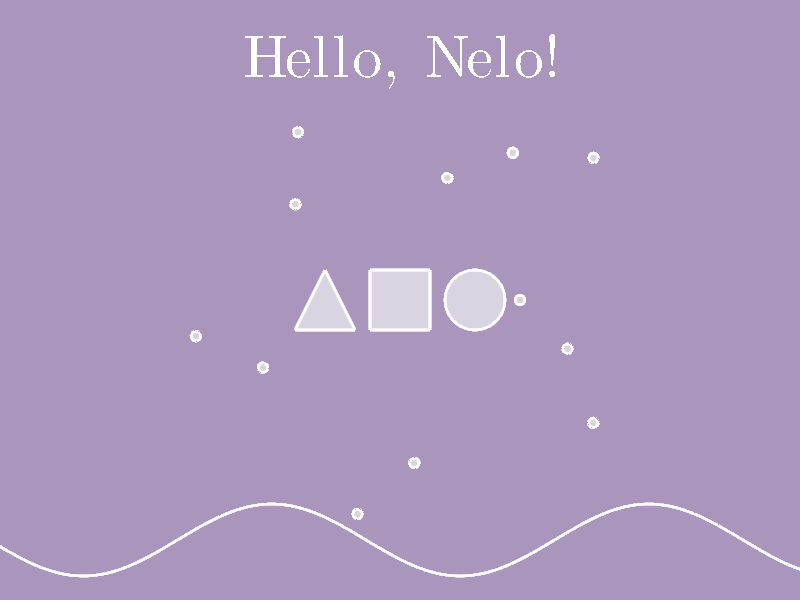
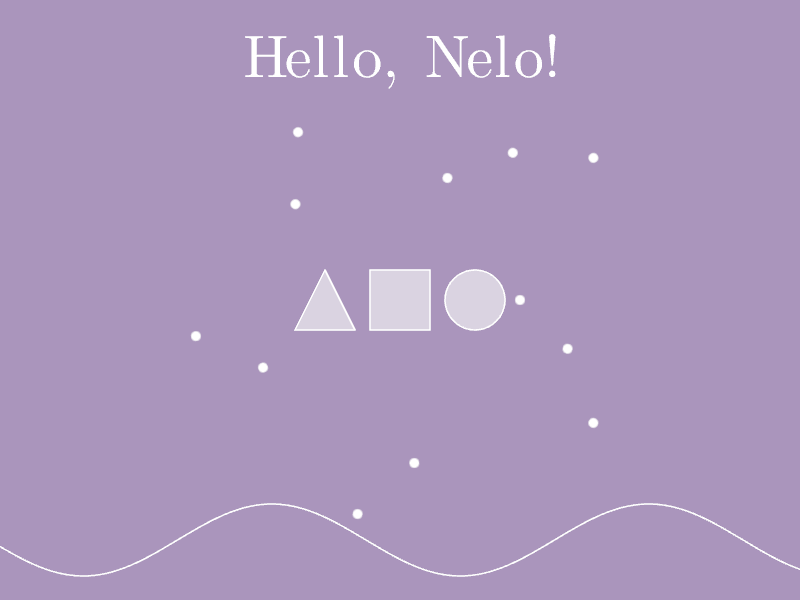
MSAA Antialiasing

diff --git a/src/render/renderer.rs b/src/render/renderer.rs
@@ -7,8 +7,9 @@ pub mod spline;
 use crate::render::{Batch, CameraBuffer, Gpu};
 use crate::scene::Scene;
 use wgpu::{
-    Color, CommandEncoderDescriptor, LoadOp, Operations, RenderPassColorAttachment,
-    RenderPassDescriptor, StoreOp, TextureView,
+    Color, CommandEncoderDescriptor, Extent3d, LoadOp, Operations, RenderPassColorAttachment,
+    RenderPassDescriptor, StoreOp, Texture, TextureDescriptor, TextureDimension, TextureUsages,
+    TextureView, TextureViewDescriptor,
 };
 
 pub type ComponentRenderer = Box<dyn Fn(&mut Batch, &Scene, f32, (u32, u32))>;
@@ -16,17 +17,17 @@ pub type ComponentRenderer = Box<dyn Fn(&mut Batch, &Scene, f32, (u32, u32))>;
 pub struct Renderer {
     scene: Scene,
     camera_buffer: CameraBuffer,
+    msaa_texture: Texture,
 
-    // Geometry primitives
+    // Primitive render and methods that load scene into it.
     batch: Batch,
-
-    // Component renderers forward the scene into the batch.
     renderers: Vec<ComponentRenderer>,
 }
 
 impl Renderer {
     pub fn new(gpu: &Gpu, scene: Scene) -> Self {
         let camera_buffer = CameraBuffer::new(&gpu);
+        let msaa_texture = Self::create_msaa_texture(&gpu, (800, 600));
         let batch = Batch::new(&gpu, camera_buffer.layout());
         let renderers: Vec<ComponentRenderer> = vec![
             Box::new(circle::circles),
@@ -37,6 +38,7 @@ impl Renderer {
 
         Self {
             scene,
+            msaa_texture,
             camera_buffer,
             batch,
             renderers,
@@ -48,6 +50,15 @@ impl Renderer {
     // filter.
     pub fn render(&mut self, gpu: &Gpu, view: &TextureView, t: f32) {
         let size = (view.texture().width(), view.texture().height());
+
+        // Get a valid view over our MSAA texture.
+        let msaa_size = (self.msaa_texture.width(), self.msaa_texture.height());
+        if size != msaa_size {
+            self.msaa_texture = Self::create_msaa_texture(&gpu, size);
+        }
+        let msaa_view = self
+            .msaa_texture
+            .create_view(&TextureViewDescriptor::default());
 
         // Populate out batch.
         for renderer in self.renderers.iter() {
@@ -72,8 +83,8 @@ impl Renderer {
             let render_pass_desc = RenderPassDescriptor {
                 label: Some("nelo pass"),
                 color_attachments: &[Some(RenderPassColorAttachment {
-                    view: &view,
-                    resolve_target: None,
+                    view: &msaa_view,
+                    resolve_target: Some(&view),
                     depth_slice: None,
                     ops: Operations {
                         load: LoadOp::Clear(Color {
@@ -101,5 +112,24 @@ impl Renderer {
 
         // Submit the draw commands to the GPU.
         gpu.queue().submit(std::iter::once(encoder.finish()));
+    }
+
+    fn create_msaa_texture(gpu: &Gpu, size: (u32, u32)) -> Texture {
+        let (width, height) = size;
+        let texture_desc = TextureDescriptor {
+            label: Some("nelo scene renderer msaa"),
+            size: Extent3d {
+                width,
+                height,
+                depth_or_array_layers: 1,
+            },
+            mip_level_count: 1,
+            sample_count: 4,
+            dimension: TextureDimension::D2,
+            format: gpu.format(),
+            usage: TextureUsages::RENDER_ATTACHMENT | TextureUsages::COPY_SRC,
+            view_formats: &[],
+        };
+        gpu.device().create_texture(&texture_desc)
     }
 }

diff --git a/src/render/renderer/circle.rs b/src/render/renderer/circle.rs
@@ -27,7 +27,7 @@ pub fn circles(batch: &mut Batch, scene: &Scene, t: f32, _size: (u32, u32)) {
             };
 
             // Compute how many points we have.
-            const POINTS_PER_UNIT: f32 = 60.0;
+            const POINTS_PER_UNIT: f32 = 75.0;
             let scale = affine.matrix2.determinant().abs().sqrt();
             let points = POINTS_PER_UNIT * scale;
             let step = 1.0 / points;

diff --git a/src/render/gpu/pipeline.rs b/src/render/gpu/pipeline.rs
@@ -65,7 +65,11 @@ impl Gpu {
                 conservative: false,
             },
             depth_stencil: None,
-            multisample: MultisampleState::default(),
+            multisample: MultisampleState {
+                count: 4,
+                mask: !0,
+                alpha_to_coverage_enabled: false,
+            },
             multiview_mask: None,
             cache: None,
         };

diff --git a/src/scene.rs b/src/scene.rs
@@ -6,7 +6,9 @@ pub mod entity;
 mod registry;
 
 pub use camera::Camera;
-pub use component::{Circle, Fill, Glyph, GroupRef, Spline, Stroke, Transform, Transformable};
+pub use component::{
+    Arrow, Circle, Fill, Glyph, GroupRef, Spline, Stroke, Transform, Transformable,
+};
 pub use entity::{EntityId, EntityRef};
 pub(crate) use registry::{Query, Registry};
 

diff --git a/DESIGN.md b/DESIGN.md
@@ -30,7 +30,10 @@ A stateless, timeline-driven animation engine for explorable visual animations.
     * [x] Text Renderer
     * [ ] Math Renderer
     * [ ] Images
-    * [ ] Antialiasing
+    * [x] Antialiasing
+* Component Renderers
+    * [x] Axes
+    * [x] Arrows
 * [ ] Theming
     * [ ] Color Type
     * [ ] Better Color Spaces
